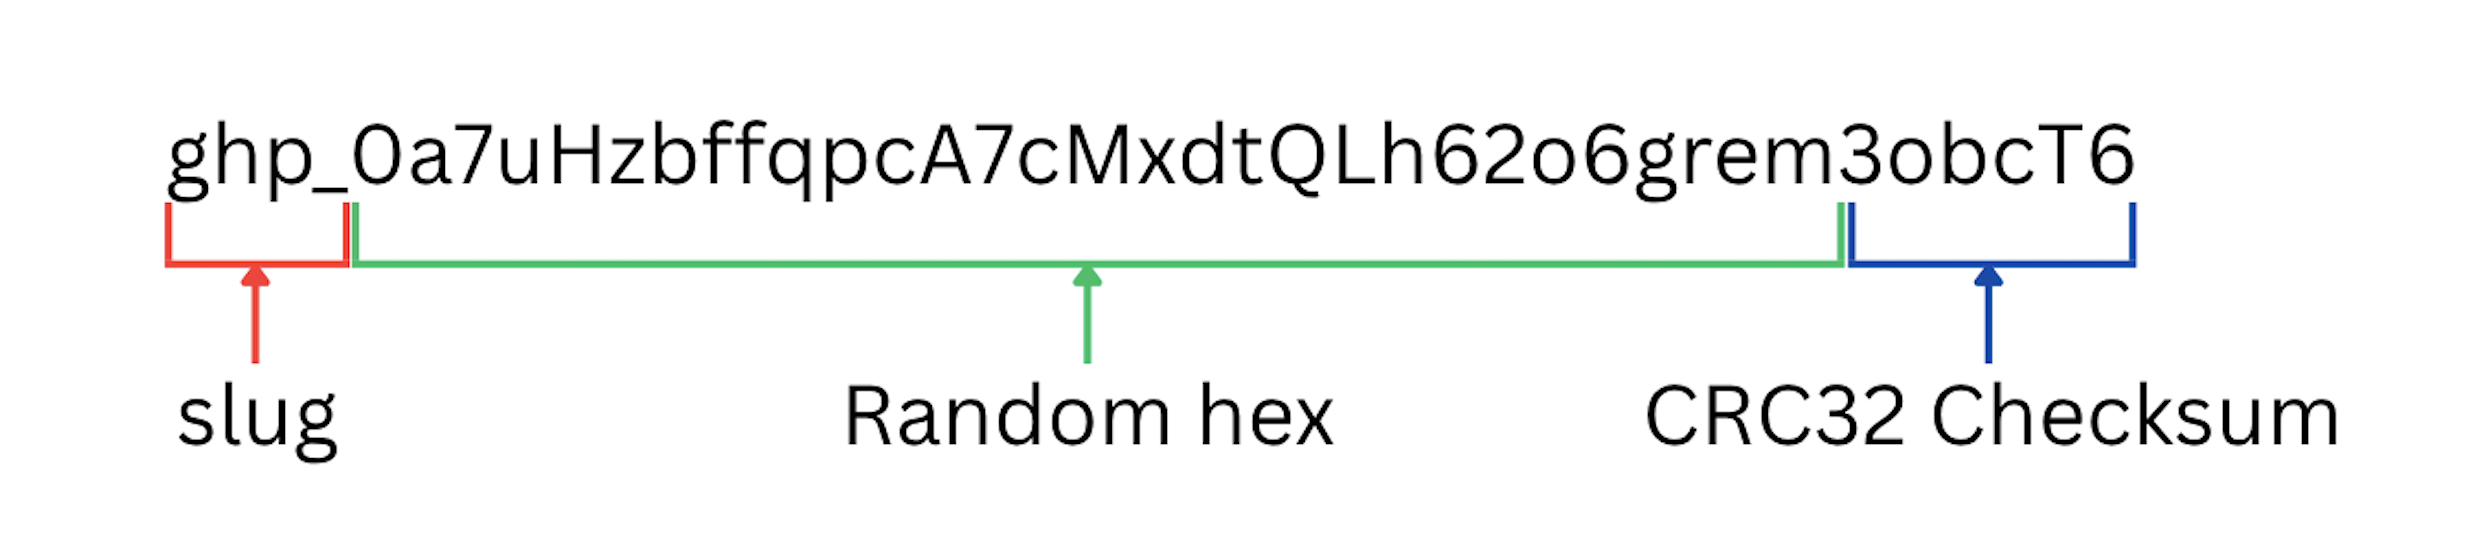
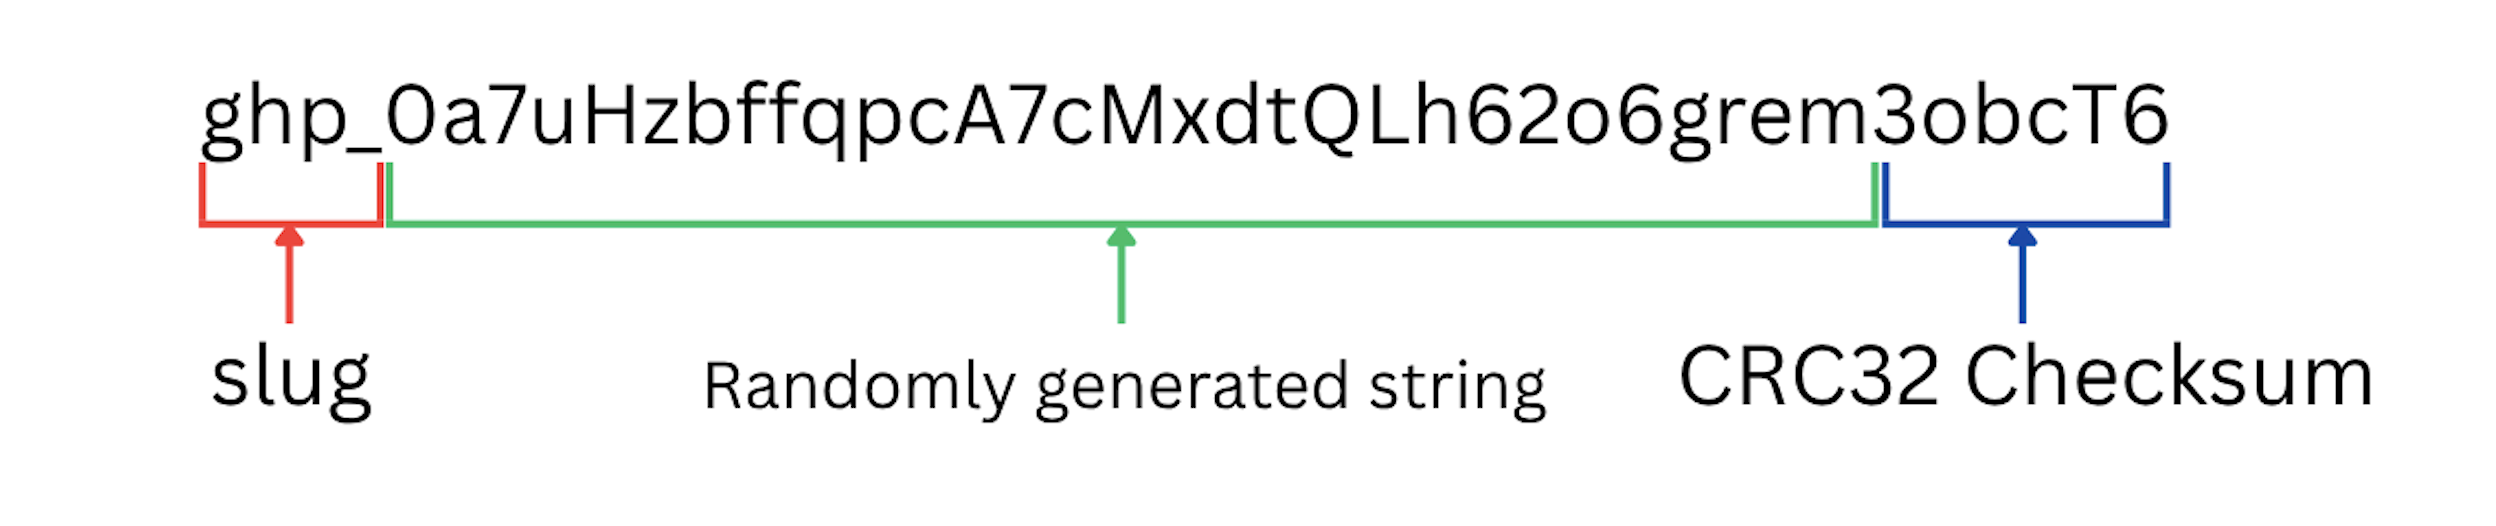
fix: made changes to the image, as pointed out by amelius

Changed region(s): [[0.0624, 0.1521, 0.9672, 0.8517], [0.2808, 0.6692, 0.624, 0.8213]]

diff --git a/content/blog/apikeys.md b/content/blog/apikeys.md
@@ -22,7 +22,7 @@ API keys are usually formatted in this way.
 
 The prefix is just extra metadata that is useful for the end user as well as the developer to figure out the kind of API key it is. For example github uses the gh(o|p) prefix, stripe uses sk_live or sk_test prefix.
 
-The next few characters in my example key is just random hex string whose length could vary across implementations. And at last either clubbed together with the hex string or separated by an '_' is the checksum. The reason behind having a checksum is that it allows you to verify first whether this API key is even valid before hitting the DB, since either there could be a mistype by the user or maybe a missed character.
+The next few characters in my example key is just random hex string or randomly generated string whose length could vary across implementations. And at last either clubbed together with the hex string or separated by an '_' is the checksum. The reason behind having a checksum is that it allows you to verify first whether this API key is even valid before hitting the DB, since either there could be a mistype by the user or maybe a missed character.
 
 > NOTE: Thanks to the lovely people of hackernews [Link to the post](https://news.ycombinator.com/item?id=47739278) I found out that the prefix as well as the checksum is for offline secret scanning :D Thank you so much for pointing it out guys
 
